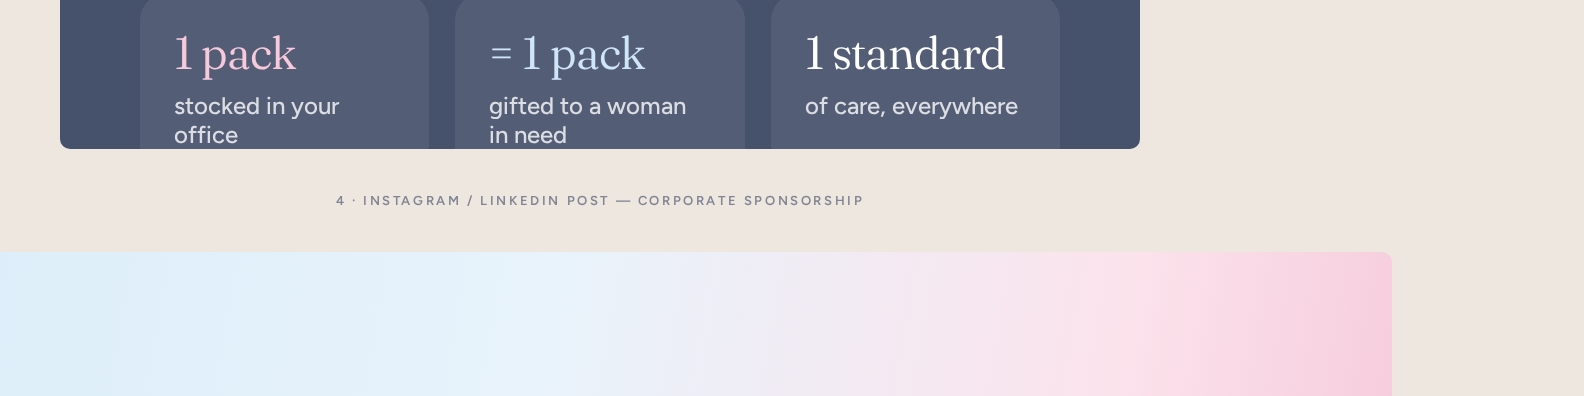
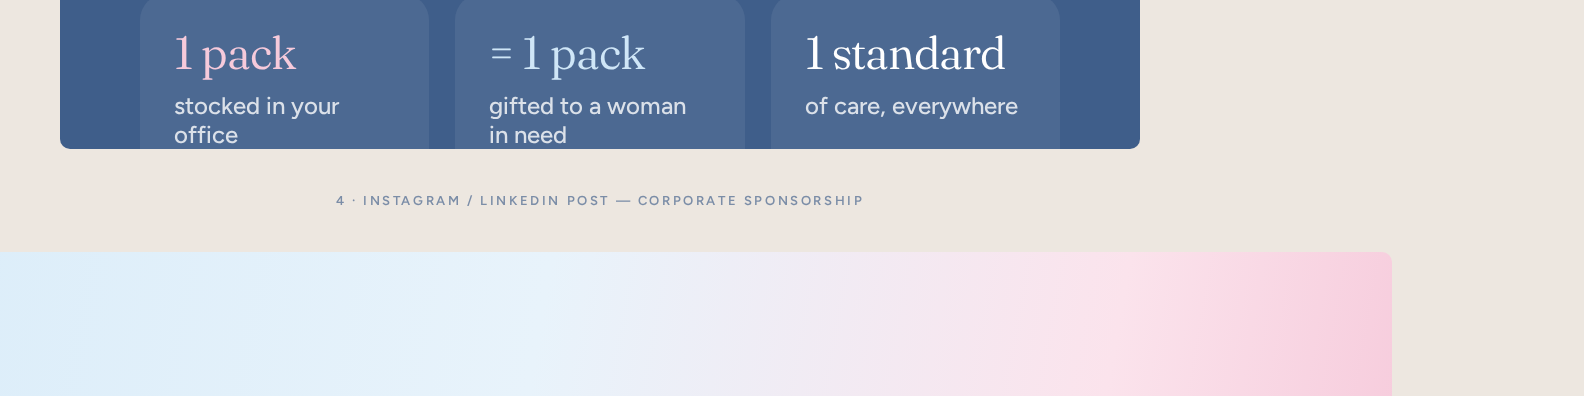
The design changes have been implemented with the softer muted Deep Sky blue (#3F5E8A), maintaining the baby-blue family tone. The headline and stat chips have been adjusted as requested, and the page height reduced accordingly. Brand kit, social pack, ZIP, and social graphics have been re-exported 
Please preview the page to review these updates and see if they meet your expectations. Payments are still in Stripe test mode until you claim your sandbox.

- Next Action Items:
  - **Lighter Footer**: Replace the deep-blue footer with a soft pastel band for a lighter appearance.
  - **Add Stats Back Subtly**: Consider integrating the 25% and 21% stats into the mission or how-it-works section if needed.
  - **Try Another Font**: Experiment with a different calm font pairing from /fonts.html beyond DM Serif + Outfit.

Emergent-Commit-Key: f346d8382f9a540b6abc46064a9e3ce90ccf98987f3d7f5c4737e4a448b0f45d

Changed region(s): [[0.0309, 0.0, 0.7424, 0.3939]]

diff --git a/frontend/public/social-raw.html b/frontend/public/social-raw.html
@@ -9,12 +9,12 @@
 <style>
   * { box-sizing:border-box; margin:0; }
   body { background:#EDE7E0; font-family:"Figtree",sans-serif; padding:40px; display:flex; flex-direction:column; gap:44px; align-items:center; }
-  .lbl { font:600 13px "Figtree"; letter-spacing:.2em; text-transform:uppercase; color:#46516B; opacity:.65; }
+  .lbl { font:600 13px "Figtree"; letter-spacing:.2em; text-transform:uppercase; color:#3F5E8A; opacity:.65; }
   .post { width:1080px; height:1080px; border-radius:10px; overflow:hidden; position:relative; }
   .wide { width:1584px; height:396px; }
   .fr { font-family:"Fraunces",serif; font-weight:340; letter-spacing:-.02em; }
   .eb { font:600 30px "Figtree"; letter-spacing:.24em; text-transform:uppercase; }
-  .btn { display:inline-flex; align-items:center; background:#46516B; color:#fff; border-radius:999px; padding:22px 40px; font:600 30px "Figtree"; }
+  .btn { display:inline-flex; align-items:center; background:#3F5E8A; color:#fff; border-radius:999px; padding:22px 40px; font:600 30px "Figtree"; }
   .wm { font-family:"Fraunces",serif; font-weight:420; font-size:44px; letter-spacing:-.02em; }
 </style>
 </head>
@@ -27,8 +27,8 @@
     <img src="brand/mark-transparent.svg" width="120" height="120" alt="">
   </div>
   <p class="eb" style="color:#C56B97;margin-top:110px">Period poverty in the Netherlands</p>
-  <p class="fr" style="font-size:340px;line-height:.86;margin-top:34px;color:#46516B">25<span style="font-size:190px">%</span></p>
-  <p class="fr" style="font-size:74px;line-height:1.08;margin-top:30px;max-width:820px;color:#46516B">of people who menstruate could not afford period products, or struggled to.</p>
+  <p class="fr" style="font-size:340px;line-height:.86;margin-top:34px;color:#3F5E8A">25<span style="font-size:190px">%</span></p>
+  <p class="fr" style="font-size:74px;line-height:1.08;margin-top:30px;max-width:820px;color:#3F5E8A">of people who menstruate could not afford period products, or struggled to.</p>
   <div style="margin-top:auto;display:flex;justify-content:space-between;align-items:flex-end">
     <p style="font:500 27px/1.5 Figtree,sans-serif">
       1 in 4. That's a neighbour, a colleague, a classmate.<br>
@@ -44,7 +44,7 @@
 <div class="post" style="background:linear-gradient(150deg,#FBE3EC 0%,#F6CADB 60%,#EFB7D0 100%);padding:90px 80px;display:flex;flex-direction:column;align-items:flex-start">
   <span class="wm">hawaa</span>
   <p class="eb" style="color:#C56B97;margin-top:150px">A movement for dignity</p>
-  <p class="fr" style="font-size:128px;line-height:1.02;margin-top:26px;color:#46516B">Period care is a basic need. We make it a <span style="font-style:italic;color:#C56B97">given.</span></p>
+  <p class="fr" style="font-size:128px;line-height:1.02;margin-top:26px;color:#3F5E8A">Period care is a basic need. We make it a <span style="font-style:italic;color:#C56B97">given.</span></p>
   <div style="margin-top:auto;display:flex;justify-content:space-between;align-items:flex-end;width:100%">
     <p style="font:500 29px/1.5 Figtree,sans-serif;max-width:640px">
       Organic cotton. Chlorine-free. Free for every woman and girl who needs it.
@@ -65,10 +65,10 @@
     <div style="display:flex;align-items:center;gap:28px;flex:1">
       <div style="background:#fff;border-radius:34px;padding:34px 40px;box-shadow:0 24px 60px -30px rgba(36,30,58,.25);flex:1">
         <p class="eb" style="color:#C56B97;font-size:24px">For you</p>
-        <p class="fr" style="font-size:62px;line-height:1.1;margin-top:8px;color:#46516B">A soft, organic pack.</p>
+        <p class="fr" style="font-size:62px;line-height:1.1;margin-top:8px;color:#3F5E8A">A soft, organic pack.</p>
       </div>
       <span class="fr" style="font-size:80px;color:#C56B97">=</span>
-      <div style="background:#46516B;border-radius:34px;padding:34px 40px;flex:1">
+      <div style="background:#3F5E8A;border-radius:34px;padding:34px 40px;flex:1">
         <p class="eb" style="color:#F6CADB;font-size:24px">For her</p>
         <p class="fr" style="font-size:62px;line-height:1.1;margin-top:8px;color:#fff">40% to her community.</p>
       </div>
@@ -82,7 +82,7 @@
 <p class="lbl">3 · Instagram / LinkedIn post — 40% to communities</p>
 
 <!-- 4: IG corporate -->
-<div class="post" style="background:#46516B;padding:90px 80px;display:flex;flex-direction:column;color:#fff">
+<div class="post" style="background:#3F5E8A;padding:90px 80px;display:flex;flex-direction:column;color:#fff">
   <div style="display:flex;justify-content:space-between;align-items:flex-start">
     <span class="wm" style="color:#fff">hawaa</span>
     <img src="brand/mark-transparent.svg" width="110" height="110" alt="">
@@ -96,7 +96,7 @@
   </div>
   <div style="margin-top:auto;display:flex;justify-content:space-between;align-items:flex-end">
     <p style="font:500 27px Figtree,sans-serif;color:rgba(255,255,255,.8)">hallo@hawaa.world</p>
-    <span class="btn" style="background:#F6CADB;color:#46516B">Become a sponsor →</span>
+    <span class="btn" style="background:#F6CADB;color:#3F5E8A">Become a sponsor →</span>
   </div>
 </div>
 <p class="lbl">4 · Instagram / LinkedIn post — corporate sponsorship</p>
@@ -105,8 +105,8 @@
 <div class="post wide" style="background:linear-gradient(100deg,#D9ECF9 0%,#E8F3FB 45%,#FBE3EC 80%,#F6CADB 100%);display:flex;align-items:center;padding:0 80px;gap:60px">
   <img src="brand/mark-transparent.svg" width="190" height="190" alt="">
   <div>
-    <p class="fr" style="font-size:66px;line-height:1.05;color:#46516B">Period care, <span style="font-style:italic;color:#C56B97">soft as a cloud.</span></p>
-    <p style="font:500 27px Figtree,sans-serif;margin-top:14px;color:#8A93A5">Ending period poverty in the Netherlands — one organic pack at a time.</p>
+    <p class="fr" style="font-size:66px;line-height:1.05;color:#3F5E8A">Period care, <span style="font-style:italic;color:#C56B97">soft as a cloud.</span></p>
+    <p style="font:500 27px Figtree,sans-serif;margin-top:14px;color:#8FA0B8">Ending period poverty in the Netherlands — one organic pack at a time.</p>
   </div>
   <span class="wm" style="margin-left:auto;font-size:58px">hawaa</span>
 </div>
@@ -116,8 +116,8 @@
 <div class="post" style="width:540px;height:960px;background:linear-gradient(170deg,#D9ECF9 0%,#FBE3EC 75%);padding:60px 46px;display:flex;flex-direction:column;align-items:center;text-align:center">
   <img src="brand/mark-transparent.svg" width="130" height="130" alt="" style="margin-top:40px">
   <span class="wm" style="margin-top:18px">hawaa</span>
-  <p class="fr" style="font-size:64px;line-height:1.05;margin-top:110px;color:#46516B">Soft as a cloud. <span style="font-style:italic;color:#C56B97">Free for her.</span></p>
-  <p style="font:500 24px/1.5 Figtree,sans-serif;margin-top:26px;color:#8A93A5">Organic cotton period care for women and girls in vulnerable neighbourhoods.</p>
+  <p class="fr" style="font-size:64px;line-height:1.05;margin-top:110px;color:#3F5E8A">Soft as a cloud. <span style="font-style:italic;color:#C56B97">Free for her.</span></p>
+  <p style="font:500 24px/1.5 Figtree,sans-serif;margin-top:26px;color:#8FA0B8">Organic cotton period care for women and girls in vulnerable neighbourhoods.</p>
   <span class="btn" style="margin-top:auto;font-size:24px;padding:18px 34px">Donate · Shop · Sponsor ↑</span>
 </div>
 <p class="lbl">6 · Instagram story (1080 × 1920)</p>

diff --git a/frontend/public/brand.html b/frontend/public/brand.html
@@ -8,27 +8,27 @@
 <link rel="preconnect" href="https://fonts.gstatic.com" crossorigin />
 <link href="https://fonts.googleapis.com/css2?family=DM+Serif+Display:ital@0;1&family=Outfit:wght@300;400;500;600&display=swap" rel="stylesheet" />
 <style>
-  :root { --cream:#FAF8F6; --pink:#F6CADB; --pink-soft:#FBE4EC; --rose:#C56B97; --blue:#CFE6F7; --blue-soft:#E8F3FB; --blue-deep:#5A8FAE; --ink:#46516B; }
+  :root { --cream:#FAF8F6; --pink:#F6CADB; --pink-soft:#FBE4EC; --rose:#C56B97; --blue:#CFE6F7; --blue-soft:#E8F3FB; --blue-deep:#5A8FAE; --ink:#3F5E8A; }
   * { box-sizing:border-box; }
   body { margin:0; background:var(--cream); color:var(--ink); font-family:"Outfit",sans-serif; padding:56px 32px 100px; }
   .wrap { max-width:1080px; margin:0 auto; }
   h1 { font-family:"DM Serif Display",serif; font-weight:400; font-size:52px; margin:0 0 6px; }
   h1 em { font-style:italic; color:var(--rose); }
-  .sub { color:#8A93A5; margin:0 0 44px; }
+  .sub { color:#8FA0B8; margin:0 0 44px; }
   h2 { font-family:"DM Serif Display",serif; font-weight:420; font-size:30px; margin:64px 0 18px; border-top:1px solid rgba(36,30,58,.12); padding-top:36px; }
   .row { display:flex; gap:20px; flex-wrap:wrap; }
   .card { background:#fff; border-radius:24px; padding:26px; flex:1 1 240px; }
   .card.center { text-align:center; }
   .logo-box { border-radius:22px; overflow:hidden; }
   .card h4 { font-size:14.5px; margin:14px 0 4px; }
-  .card small { color:#8A93A5; display:block; line-height:1.5; }
+  .card small { color:#8FA0B8; display:block; line-height:1.5; }
   a.dl { display:inline-block; margin-top:12px; font-size:13px; font-weight:600; color:var(--rose); text-decoration:none; border:1px solid var(--pink); padding:7px 14px; border-radius:999px; }
   .sw { height:92px; border-radius:16px; border:1px solid rgba(36,30,58,.08); }
   .type-a { font-family:"DM Serif Display",serif; font-weight:400; font-size:42px; line-height:1.05; }
   .type-b { font-family:"DM Serif Display",serif; font-style:italic; font-weight:400; font-size:34px; color:var(--rose); }
   .type-c { font-size:15px; line-height:1.6; }
   .eyebrow-sample { font-size:12px; letter-spacing:.22em; text-transform:uppercase; font-weight:600; color:var(--rose); }
-  ul.rules { color:#8A93A5; line-height:1.9; font-size:14.5px; padding-left:18px; }
+  ul.rules { color:#8FA0B8; line-height:1.9; font-size:14.5px; padding-left:18px; }
 </style>
 </head>
 <body>
@@ -67,8 +67,8 @@
     <div class="card"><div class="sw" style="background:#F6CADB"></div><h4>Baby Pink</h4><small>#F6CADB — accents, highlights</small></div>
     <div class="card"><div class="sw" style="background:#C56B97"></div><h4>Rose</h4><small>#C56B97 — eyebrows, emphasis text</small></div>
     <div class="card"><div class="sw" style="background:#5A8FAE"></div><h4>Sky Deep</h4><small>#5A8FAE — blue emphasis text</small></div>
-    <div class="card"><div class="sw" style="background:#46516B"></div><h4>Moonless Sky</h4><small>#46516B — headlines, buttons</small></div>
-    <div class="card"><div class="sw" style="background:#8A93A5"></div><h4>Mist</h4><small>#8A93A5 — body copy</small></div>
+    <div class="card"><div class="sw" style="background:#3F5E8A"></div><h4>Deep Sky</h4><small>#3F5E8A — headlines, buttons</small></div>
+    <div class="card"><div class="sw" style="background:#8FA0B8"></div><h4>Mist</h4><small>#8FA0B8 — body copy</small></div>
   </div>
 
   <h2>Fonts</h2>
@@ -77,13 +77,13 @@
       <p class="eyebrow-sample">Display — DM Serif Display</p>
       <p class="type-a" style="margin:10px 0 6px">Period care, soft as a cloud.</p>
       <p class="type-b" style="margin:0 0 10px">Soft as a cloud.</p>
-      <p class="type-c" style="color:#8A93A5">Headlines &amp; the wordmark. Use regular 400, italics for emphasis. <a href="https://fonts.google.com/specimen/DM+Serif+Display" target="_blank" style="color:var(--rose)">Get DM Serif Display</a></p>
+      <p class="type-c" style="color:#8FA0B8">Headlines &amp; the wordmark. Use regular 400, italics for emphasis. <a href="https://fonts.google.com/specimen/DM+Serif+Display" target="_blank" style="color:var(--rose)">Get DM Serif Display</a></p>
     </div>
     <div class="card" style="flex:1 1 260px">
-      <p class="eyebrow-sample" style="color:#8A93A5">Body — Outfit</p>
+      <p class="eyebrow-sample" style="color:#8FA0B8">Body — Outfit</p>
       <p class="type-c" style="margin:12px 0 10px">Outfit 300–600 for body, buttons and labels. Roomy line-height 1.6, never below 14px. <a href="https://fonts.google.com/specimen/Outfit" target="_blank" style="color:var(--rose)">Get Outfit</a></p>
       <p class="eyebrow-sample">Eyebrow / labels</p>
-      <p class="type-c" style="color:#8A93A5">12px, uppercase, 0.22em tracking, Rose.</p>
+      <p class="type-c" style="color:#8FA0B8">12px, uppercase, 0.22em tracking, Rose.</p>
     </div>
   </div>
 

diff --git a/frontend/public/social-pack.html b/frontend/public/social-pack.html
@@ -9,23 +9,23 @@
 <link href="https://fonts.googleapis.com/css2?family=Fraunces:ital,opsz,wght,SOFT,WONK@0,9..144,300..800,0..100,0..1;1,9..144,300..800,0..100,0..1&family=Figtree:wght@400;500;600;700&display=swap" rel="stylesheet" />
 <style>
   * { box-sizing:border-box; }
-  body { margin:0; background:#FAF8F6; color:#46516B; font-family:"Figtree",sans-serif; padding:56px 32px 100px; }
+  body { margin:0; background:#FAF8F6; color:#3F5E8A; font-family:"Figtree",sans-serif; padding:56px 32px 100px; }
   .wrap { max-width:1080px; margin:0 auto; }
   h1 { font-family:"Fraunces",serif; font-weight:340; font-size:52px; margin:0 0 6px; }
   h1 em { font-style:italic; color:#C56B97; }
-  .sub { color:#8A93A5; margin:0 0 44px; max-width:760px; line-height:1.6; }
+  .sub { color:#8FA0B8; margin:0 0 44px; max-width:760px; line-height:1.6; }
   h2 { font-family:"Fraunces",serif; font-weight:420; font-size:28px; margin:52px 0 14px; border-top:1px solid rgba(36,30,58,.12); padding-top:32px; }
   .row { display:flex; gap:22px; flex-wrap:wrap; }
   .card { background:#fff; border-radius:24px; padding:20px; flex:1 1 300px; text-align:center; }
   .card img { width:100%; border-radius:14px; display:block; }
   .card h4 { font-size:15px; margin:14px 0 4px; }
-  .card small { color:#8A93A5; display:block; line-height:1.5; }
+  .card small { color:#8FA0B8; display:block; line-height:1.5; }
   .dl { display:inline-block; margin-top:12px; font-size:13px; font-weight:600; color:#C56B97; text-decoration:none; border:1px solid #F6CADB; padding:8px 16px; border-radius:999px; }
   .cap { background:#fff; border-radius:24px; padding:26px 28px; margin-top:16px; flex:1 1 320px; }
   .cap h4 { font-size:15px; margin:0 0 8px; }
-  .cap p { font-size:14px; line-height:1.75; color:#46516B; margin:0; white-space:pre-line; }
-  .note { font-size:13px; color:#8A93A5; margin-top:6px; }
-  .notice { background:linear-gradient(135deg,#D9ECF9,#FBE3EC); border-radius:24px; padding:20px 24px; margin-top:36px; display:flex; gap:14px; align-items:center; justify-content:space-between; flex-wrap:wrap; font-size:14px; color:#46516B; }
+  .cap p { font-size:14px; line-height:1.75; color:#3F5E8A; margin:0; white-space:pre-line; }
+  .note { font-size:13px; color:#8FA0B8; margin-top:6px; }
+  .notice { background:linear-gradient(135deg,#D9ECF9,#FBE3EC); border-radius:24px; padding:20px 24px; margin-top:36px; display:flex; gap:14px; align-items:center; justify-content:space-between; flex-wrap:wrap; font-size:14px; color:#3F5E8A; }
   .notice a { font-weight:600; color:#C56B97; text-decoration:none; }
 </style>
 </head>
@@ -110,7 +110,7 @@ Let's talk: hallo@hawaa.world
   <div class="cap"><p>Post the statistic first, follow with the mission two days later, then the buy-one-gift-one post. The corporate post works best on LinkedIn from the founder's personal profile. Pin the banner to the Hawaa company page. Keep alt-text on: describe the visual in one sentence.</p></div>
 
   <aside class="notice" style="margin-top:40px;background:#fff;border:1px solid #F6CADB;border-radius:24px;padding:22px 26px;display:flex;justify-content:space-between;align-items:center;gap:20px;flex-wrap:wrap">
-    <div style="font-size:14.5px;line-height:1.6;color:#46516B;max-width:620px"><strong>Want different colors, text or sizes?</strong> The graphics are plain HTML at <a href="/social-raw.html" target="_blank" rel="noopener" style="color:#C56B97">/social-raw.html</a>. Tweak any color or word, refresh the preview, and re-export the artwork.</div>
+    <div style="font-size:14.5px;line-height:1.6;color:#3F5E8A;max-width:620px"><strong>Want different colors, text or sizes?</strong> The graphics are plain HTML at <a href="/social-raw.html" target="_blank" rel="noopener" style="color:#C56B97">/social-raw.html</a>. Tweak any color or word, refresh the preview, and re-export the artwork.</div>
     <a class="dl" href="/social-raw.html" target="_blank" rel="noopener" style="margin:0">Open editable source →</a>
   </aside>
 </div>

diff --git a/frontend/public/logo-proposals.html b/frontend/public/logo-proposals.html
@@ -8,15 +8,15 @@
 <link rel="preconnect" href="https://fonts.gstatic.com" crossorigin />
 <link href="https://fonts.googleapis.com/css2?family=Fraunces:ital,opsz,wght,SOFT,WONK@0,9..144,300..800,0..100,0..1;1,9..144,300..800,0..100,0..1&family=Figtree:wght@400;500;600&display=swap" rel="stylesheet" />
 <style>
-  body { margin:0; background:#FAF8F6; color:#46516B; font-family:"Figtree",sans-serif; padding:48px 32px 80px; }
+  body { margin:0; background:#FAF8F6; color:#3F5E8A; font-family:"Figtree",sans-serif; padding:48px 32px 80px; }
   h1 { font-family:"Fraunces",serif; font-weight:340; font-size:44px; margin:0 0 6px; }
   h1 em { font-style:italic; color:#C56B97; }
-  p.sub { color:#8A93A5; margin:0 0 40px; max-width:760px; }
+  p.sub { color:#8FA0B8; margin:0 0 40px; max-width:760px; }
   .grid { display:grid; grid-template-columns:repeat(auto-fill,minmax(250px,1fr)); gap:22px; max-width:1180px; }
   .card { background:#fff; border-radius:26px; padding:28px; text-align:center; }
   .card svg { width:170px; height:170px; }
   .card h3 { font-family:"Fraunces",serif; font-weight:450; font-size:22px; margin:18px 0 4px; }
-  .card small { color:#8A93A5; font-size:13.5px; line-height:1.45; display:block; }
+  .card small { color:#8FA0B8; font-size:13.5px; line-height:1.45; display:block; }
   .tag { display:inline-block; margin-top:10px; font-size:11px; letter-spacing:.14em; text-transform:uppercase; font-weight:600; color:#C56B97; }
 </style>
 </head>
@@ -31,7 +31,7 @@
 </div>
 
 <div class="card">
-<svg viewBox="0 0 64 64"><defs><linearGradient id="g2" x1="0" y1="0" x2="0" y2="1"><stop offset="0" stop-color="#D9ECF9"/><stop offset="1" stop-color="#FBE3EC"/></linearGradient></defs><rect width="64" height="64" rx="18" fill="url(#g2)"/><path d="M17 40 C13 39.5 11.2 36 12.4 32.8 C13.5 29.9 16.6 28.5 19.6 29.3 C20.3 24 25.2 20.7 30.5 21.8 C35.2 22.8 38.3 26.7 37.9 31 C42 30.7 45.2 33.4 45.1 36.8 C45 40 42.1 42.1 38.9 41.4 C37.2 43 34.3 42.9 32.9 41.3" fill="none" stroke="#46516B" stroke-width="2.6" stroke-linecap="round"/><circle cx="49" cy="43.5" r="1.8" fill="#DE8FBB"/></svg>
+<svg viewBox="0 0 64 64"><defs><linearGradient id="g2" x1="0" y1="0" x2="0" y2="1"><stop offset="0" stop-color="#D9ECF9"/><stop offset="1" stop-color="#FBE3EC"/></linearGradient></defs><rect width="64" height="64" rx="18" fill="url(#g2)"/><path d="M17 40 C13 39.5 11.2 36 12.4 32.8 C13.5 29.9 16.6 28.5 19.6 29.3 C20.3 24 25.2 20.7 30.5 21.8 C35.2 22.8 38.3 26.7 37.9 31 C42 30.7 45.2 33.4 45.1 36.8 C45 40 42.1 42.1 38.9 41.4 C37.2 43 34.3 42.9 32.9 41.3" fill="none" stroke="#3F5E8A" stroke-width="2.6" stroke-linecap="round"/><circle cx="49" cy="43.5" r="1.8" fill="#DE8FBB"/></svg>
 <h3>Drift Line</h3><small>The cloud drawn in one calm, unbroken line. Quiet, editorial, grown-up.</small>
 </div>
 

diff --git a/frontend/public/fonts.html b/frontend/public/fonts.html
@@ -9,19 +9,19 @@
 <link href="https://fonts.googleapis.com/css2?family=Fraunces:ital,opsz,wght,SOFT,WONK@0,9..144,300..800,0..100,0..1;1,9..144,300..800,0..100,0..1&family=Figtree:wght@400;500;600&family=Cormorant+Garamond:ital,wght@0,400;0,500;1,400&family=Jost:wght@300;400;500;600&family=DM+Serif+Display:ital@0;1&family=Outfit:wght@300;400;500;600&family=Newsreader:ital,opsz,wght@0,6..72,400;0,6..72,500;1,6..72,400&family=Manrope:wght@300;400;500;600&family=EB+Garamond:ital,wght@0,400;0,500;1,400&family=Instrument+Sans:wght@400;500;600&family=Playfair+Display:ital,wght@0,400;0,500;1,400&family=Sora:wght@300;400;500;600&display=swap" rel="stylesheet" />
 <style>
   * { box-sizing:border-box; }
-  body { margin:0; background:#FAF8F6; color:#46516B; font-family:"Figtree",sans-serif; padding:48px 32px 80px; }
+  body { margin:0; background:#FAF8F6; color:#3F5E8A; font-family:"Figtree",sans-serif; padding:48px 32px 80px; }
   .wrap { max-width:1160px; margin:0 auto; }
   h1 { font-family:"Fraunces",serif; font-weight:340; font-size:44px; margin:0 0 6px; }
   h1 em { font-style:italic; color:#C56B97; }
-  p.sub { color:#8A93A5; margin:0 0 36px; max-width:720px; line-height:1.6; }
+  p.sub { color:#8FA0B8; margin:0 0 36px; max-width:720px; line-height:1.6; }
   .grid { display:grid; grid-template-columns:repeat(auto-fill,minmax(340px,1fr)); gap:22px; }
   .card { background:#fff; border-radius:26px; padding:30px 32px; }
   .card .fonts { font:600 12px/1 "Figtree"; letter-spacing:.18em; text-transform:uppercase; color:#C56B97; }
   .card .headline { font-size:44px; line-height:1.05; margin:20px 0 6px; letter-spacing:-.02em; }
   .card .ital { font-size:44px; }
   .card .eyebrow { font-size:12px; letter-spacing:.22em; text-transform:uppercase; font-weight:600; color:#C56B97; margin:18px 0 6px; }
-  .card .body { font-size:15px; line-height:1.65; color:#8A93A5; }
-  .card .vibe { font:500 13px/1.5 "Figtree"; color:#8A93A5; margin-top:16px; border-top:1px solid rgba(36,30,58,.1); padding-top:14px; }
+  .card .body { font-size:15px; line-height:1.65; color:#8FA0B8; }
+  .card .vibe { font:500 13px/1.5 "Figtree"; color:#8FA0B8; margin-top:16px; border-top:1px solid rgba(36,30,58,.1); padding-top:14px; }
   .tag { display:inline-block; margin-left:10px; font-size:11px; letter-spacing:.14em; text-transform:uppercase; font-weight:600; color:#fff; background:#C56B97; border-radius:999px; padding:4px 10px; vertical-align:middle; }
 </style>
 </head>

diff --git a/exports/social/social-pack.html b/exports/social/social-pack.html
@@ -13,18 +13,18 @@
   .wrap { max-width:1080px; margin:0 auto; }
   h1 { font-family:"Fraunces",serif; font-weight:340; font-size:52px; margin:0 0 6px; }
   h1 em { font-style:italic; color:#C56B97; }
-  .sub { color:#8A93A5; margin:0 0 44px; max-width:760px; line-height:1.6; }
+  .sub { color:#8FA0B8; margin:0 0 44px; max-width:760px; line-height:1.6; }
   h2 { font-family:"Fraunces",serif; font-weight:420; font-size:28px; margin:52px 0 14px; border-top:1px solid rgba(36,30,58,.12); padding-top:32px; }
   .row { display:flex; gap:22px; flex-wrap:wrap; }
   .card { background:#fff; border-radius:24px; padding:20px; flex:1 1 300px; text-align:center; }
   .card img { width:100%; border-radius:14px; display:block; }
   .card h4 { font-size:15px; margin:14px 0 4px; }
-  .card small { color:#8A93A5; display:block; line-height:1.5; }
+  .card small { color:#8FA0B8; display:block; line-height:1.5; }
   .dl { display:inline-block; margin-top:12px; font-size:13px; font-weight:600; color:#C56B97; text-decoration:none; border:1px solid #F6CADB; padding:8px 16px; border-radius:999px; }
   .cap { background:#fff; border-radius:24px; padding:26px 28px; margin-top:16px; flex:1 1 320px; }
   .cap h4 { font-size:15px; margin:0 0 8px; }
   .cap p { font-size:14px; line-height:1.75; color:#3E4A5E; margin:0; white-space:pre-line; }
-  .note { font-size:13px; color:#8A93A5; margin-top:6px; }
+  .note { font-size:13px; color:#8FA0B8; margin-top:6px; }
   .notice { background:linear-gradient(135deg,#D9ECF9,#FBE3EC); border-radius:24px; padding:20px 24px; margin-top:36px; display:flex; gap:14px; align-items:center; justify-content:space-between; flex-wrap:wrap; font-size:14px; color:#3E4A5E; }
   .notice a { font-weight:600; color:#C56B97; text-decoration:none; }
 </style>

diff --git a/frontend/src/components/hawaa/Packages.jsx b/frontend/src/components/hawaa/Packages.jsx
@@ -18,17 +18,9 @@ export const Packages = ({ onPick }) => (
             Soft on your team, <span className="font-display-italic text-[var(--pink-deep)]">generous to her.</span>
           </h2>
           <p className="mt-6 max-w-2xl text-base leading-relaxed text-[var(--ink-soft)] md:text-lg" data-testid="community-impact">
-            40% of every sale is donated as products to women in vulnerable communities — the same softness, free of charge.
+            Your sponsorship stocks premium organic period care for your own team, and 40% of every package flows to women and girls in vulnerable communities and neighbourhoods.
           </p>
-          <div className="mt-8 flex flex-wrap items-center gap-3" data-testid="stats-inline">
-            <span className="rounded-full bg-[var(--blue-soft)] px-4 py-2 text-sm font-semibold text-[var(--blue-deep)]">25% could not afford period products in NL</span>
-            <span className="rounded-full bg-[var(--pink-soft)] px-4 py-2 text-sm font-semibold text-[var(--pink-deep)]">21% used unsafe alternatives</span>
-            <span className="rounded-full bg-[var(--pink)] px-4 py-2 text-sm font-semibold text-[var(--ink)]">40% given back</span>
-          </div>
         </div>
-        <p className="max-w-md text-base leading-relaxed text-[var(--ink-soft)] md:justify-self-end md:text-lg">
-          Your sponsorship stocks premium organic period care for your own team, and 40% of every package flows to women and girls in vulnerable communities and neighbourhoods.
-        </p>
       </div>
       <div className="grid gap-4 lg:grid-cols-3">
         {tiers.map((t, i) => (

diff --git a/frontend/src/components/hawaa/HowItWorks.jsx b/frontend/src/components/hawaa/HowItWorks.jsx
@@ -17,9 +17,9 @@ export const HowItWorks = () => (
   <section id="how" className="relative overflow-hidden bg-gradient-to-b from-[var(--cream)] via-[var(--blue-soft)] to-[var(--cream)] px-5 py-20 sm:px-8 sm:py-24" data-testid="how-section">
       <Cloud tone="blue" className="drift pointer-events-none absolute -right-20 top-20 h-40 w-80 opacity-80" />
       <div className="relative mx-auto max-w-7xl">
-        <p className="eyebrow mb-5">The Hawaa solution</p>
+        <p className="eyebrow mb-5">How it works</p>
         <h2 className="font-display max-w-4xl text-4xl font-light leading-[1.02] sm:text-6xl">
-          Period care is a basic need. Hawaa makes it a <span className="font-display-italic text-[var(--blue-deep)]">given</span>, wherever women are.
+          Period care is a basic need. The given must be <span className="font-display-italic text-[var(--blue-deep)]">quality</span> — organic, chlorine-free and gentle.
         </h2>
 
         <div className="mt-16 grid gap-5 lg:grid-cols-12">

diff --git a/frontend/src/index.css b/frontend/src/index.css
@@ -10,8 +10,8 @@
   --blue: #CFE6F7;
   --blue-soft: #E8F3FB;
   --blue-deep: #5A8FAE;
-  --ink: #46516B;
-  --ink-soft: #8A93A5;
+  --ink: #3F5E8A;
+  --ink-soft: #8FA0B8;
 }
 
 @layer base {

diff --git a/memory/PRD.md b/memory/PRD.md
@@ -31,6 +31,12 @@ User choices: landing page + corporate sponsorship enquiry form (DB), admin view
 - /social-raw.html — editable HTML source of the graphics; /app/exports mirrors the final files
 - /icon-preview.html — icon family preview
 
+## 2026-11-22 updates v5
+- Ink color replaced: #46516B → #3F5E8A (Deep Sky, softer muted blue, no longer near-black); Mist #8A93A5 → #8FA0B8. Footer/CTA dark is now Deep Sky.
+- 'The Hawaa solution' removed; section now says 'The given must be quality — organic, chlorine-free and gentle.'
+- Stat chips (25%/21%/40%) removed from packages; only the 40% copy remains. Page even shorter.
+- Packages: Sunrise / Blush Sky / Open Heaven with 'Price on request', features mention 40%.
+
 ## 2026-11-22 updates v4
 - Page shortened further: stats bento (Challenge section) and community photo removed; mission collapsed to manifesto + 2-line intro; stats kept as 3 inline chips in packages (25% / 21% / 40%); Founder kept as one short line.
 - Section paddings trimmed (py-28/40 → py-24/32, marquee py-6).
